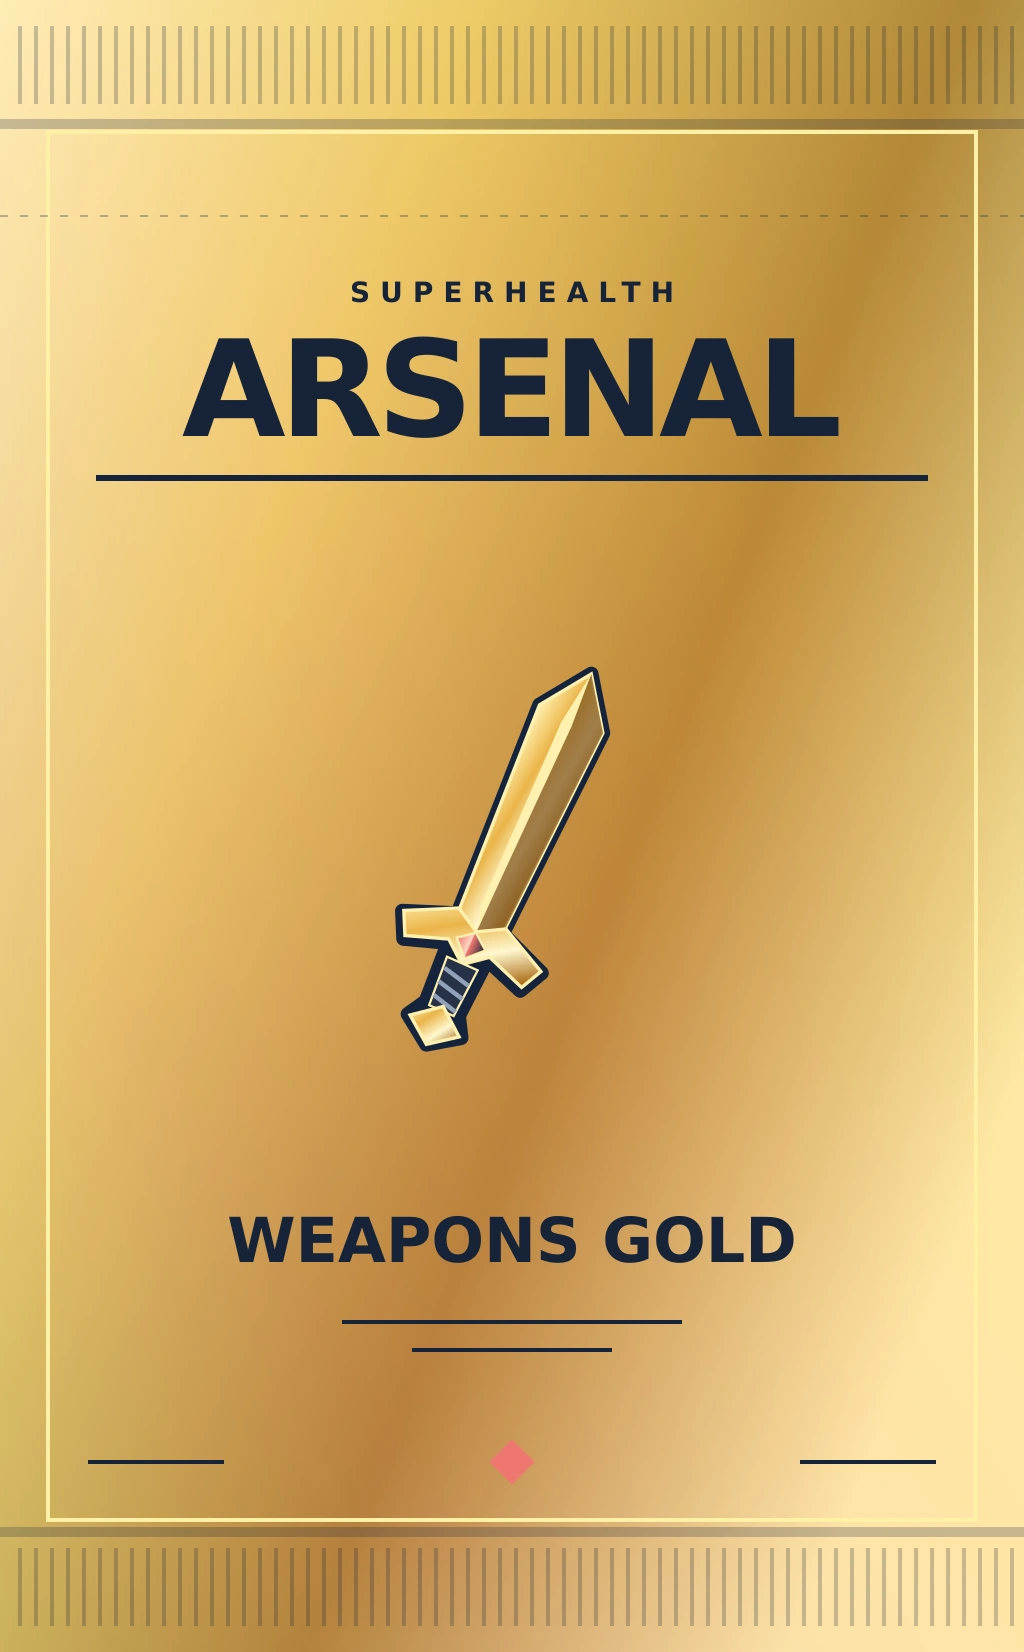
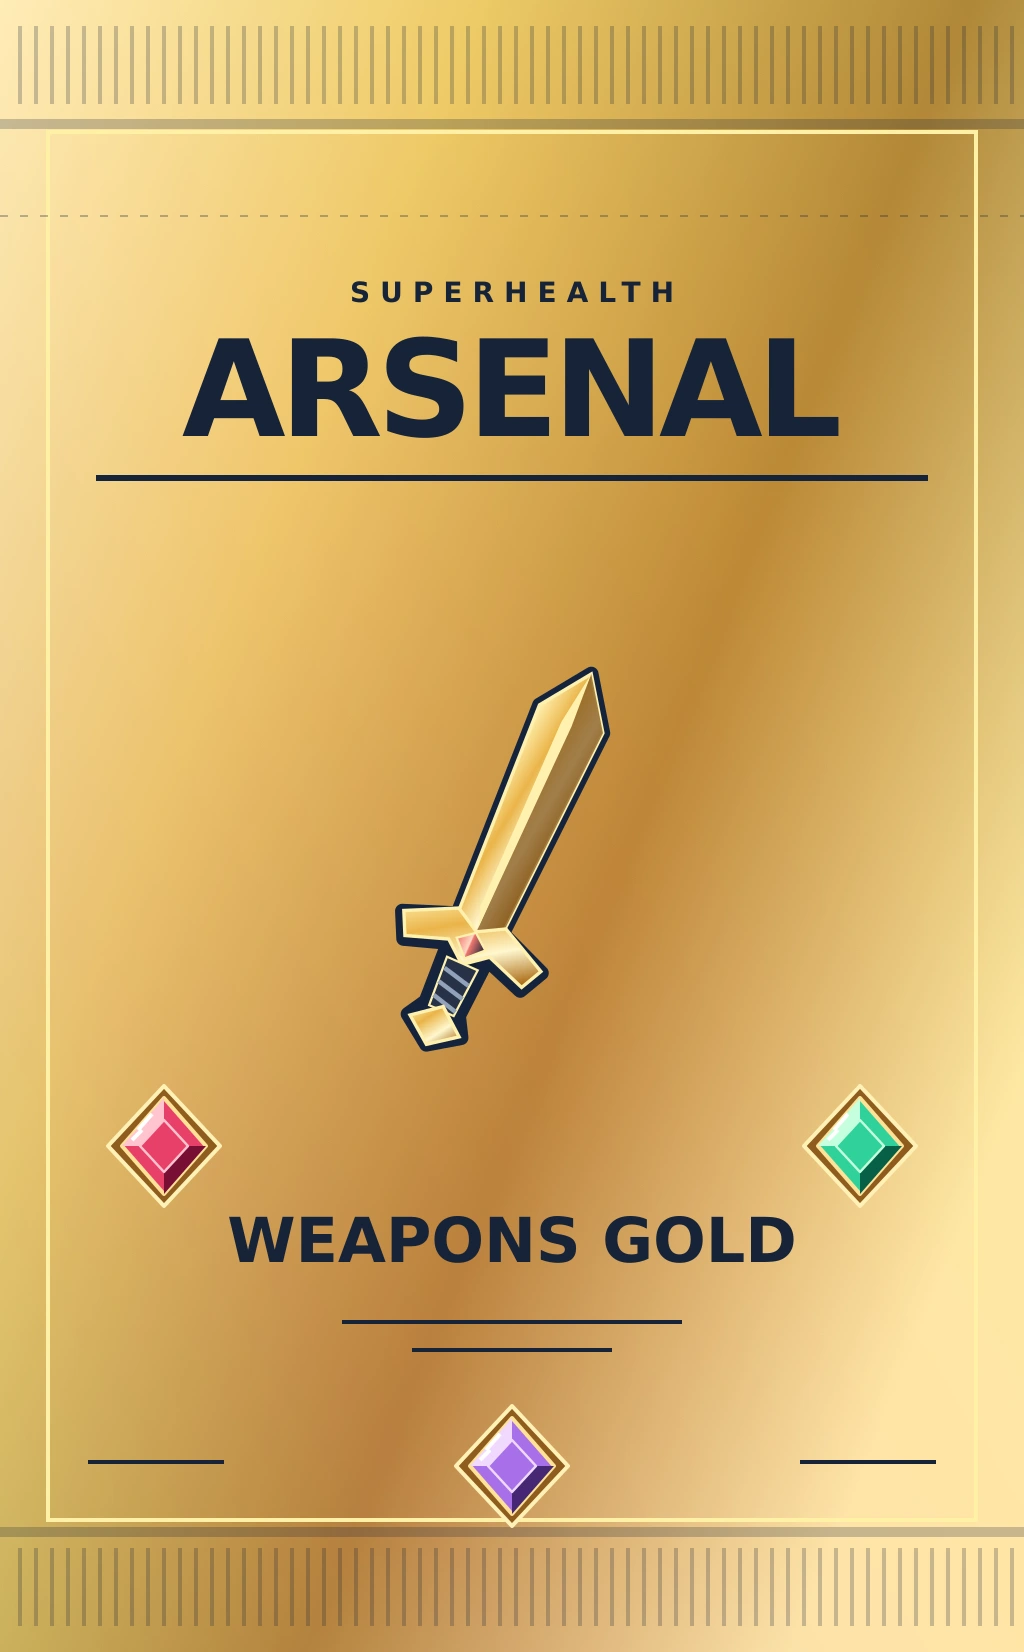
Add faceted gemstones to French and English Gold packs

Changed region(s): [[0.7812, 0.6483, 0.9062, 0.7409], [0.4375, 0.8335, 0.5625, 0.9262], [0.0938, 0.6483, 0.2188, 0.7409]]

diff --git a/review/tcg-dashboard-2026-11-11/index.html b/review/tcg-dashboard-2026-11-11/index.html
@@ -14,7 +14,7 @@
 <figure><img src="armures-gold.png" alt="Rendu WebGL du paquet Armures Gold"><figcaption>ARMURES GOLD</figcaption><small>OR / MENTHE</small></figure>
 </div></section>
 <div class="note">Cette proposition est réalisée dans les sources de l’application. Les images ci-dessus sont des captures du moteur, pas des maquettes ImageGen. Les SVG sont reproductibles ; le matériau réagit à la rotation. Le rendu de secours sans WebGL conserve les quatre illustrations.</div>
-<h2>Version 3.9.9 · Tranches continues · Français / English</h2><p>Géométrie corrigée : les deux faces rejoignent une soudure latérale fine et partagent exactement leurs points de bord. Le geste de déchirure est conservé. Les illustrations passent en anglais avec la langue de l’app : Weapons, Armor, Weapons Gold et Armor Gold, recto et verso.</p><div class="angle"><img src="armures-edge-right.png" alt="Tranche corrigée vue de profil"><img src="armes-gold-en.png" alt="Paquet Weapons Gold en anglais"></div><h2>La couleur suit la matière</h2><p>Deux orientations du même paquet : diffraction sur la surface argentée, typographie sombre préservée et reflets plus chauds sur les versions Gold. Les mouvements réduits conservent une matière statique tant que le paquet ne tourne pas.</p>
+<h2>Version 3.9.9 · Tranches continues · Français / English</h2><p>Géométrie corrigée : les deux faces rejoignent une soudure latérale fine et partagent exactement leurs points de bord. Le geste de déchirure est conservé. Les versions Gold portent des rubis, émeraudes et améthystes facettés avec reflets calculés. Les illustrations passent en anglais avec la langue de l’app : Weapons, Armor, Weapons Gold et Armor Gold, recto et verso.</p><div class="angle"><img src="armures-edge-right.png" alt="Tranche corrigée vue de profil"><img src="armes-gold-en.png" alt="Paquet Weapons Gold en anglais"></div><h2>La couleur suit la matière</h2><p>Deux orientations du même paquet : diffraction sur la surface argentée, typographie sombre préservée et reflets plus chauds sur les versions Gold. Les mouvements réduits conservent une matière statique tant que le paquet ne tourne pas.</p>
 <div class="angle"><img src="prism-angle-left.png" alt="Reflet du paquet tourné vers la gauche"><img src="prism-angle-right.png" alt="Reflet du paquet tourné vers la droite"></div>
 <h2>Dashboard : rendre les priorités visibles</h2>
 <p>Audit du code Android local au commit <code>feb0ea2d</code>, en tenant compte des modifications non commitées présentes. Les anciennes captures de novembre servent de repères visuels ; elles ne sont pas présentées comme une capture du build actuel. La grande carte « Mes séries » de ces captures a été retirée depuis : elle n’est donc pas traitée comme un défaut actuel.</p>

diff --git a/app/src/superhealth/assets/arsenal/pack.js b/app/src/superhealth/assets/arsenal/pack.js
@@ -452,6 +452,13 @@ function run(){
         foil=jewel(foil,vec2(.80,.70),vec3(.25,.92,.58),reflected,2.1);
         foil=jewel(foil,vec2(.50,.21),vec3(.65,.36,1.),reflected,4.6);
       }
+      if(mode==0&&filmPart<.5&&wrapperFx>1.5){
+        // Same bezels as the vector print, including its non-WebGL fallback.
+        // Tex.y is bottom-up: the lower illustration corners and footer.
+        foil=jewel(foil,vec2(.160156,.306295),vec3(.94,.16,.29),reflected,.25);
+        foil=jewel(foil,vec2(.839844,.306295),vec3(.16,.89,.56),reflected,2.1);
+        foil=jewel(foil,vec2(.50,.112591),vec3(.65,.36,1.),reflected,4.6);
+      }
     }else if(editionFx>1.5&&editionFx<2.5){
       vec3 rainbow=.5+.5*cos(6.283*(tex.x*.50+tex.y*.33+reflected.x*.35+vec3(0.,.333,.667)));
       foil+=rainbow*(varnish*.32+grazing*.14);

diff --git a/tools/build-prism-boosters.py b/tools/build-prism-boosters.py
@@ -40,6 +40,20 @@ def emblem(weapon, gold):
     </g>'''
 
 
+def gemstones():
+    """Printed faceted stones, aligned with the live shader's gold-only bezels."""
+    gems=[]
+    for x,y,dark,mid,light in [(82,573,'#790e35','#e84068','#ffc4d0'),(430,573,'#075f47','#30d19a','#c5ffdd'),(256,733,'#452773','#a770e9','#f1d9ff')]:
+        gems.append(f'''<g transform="translate({x} {y})" stroke-linejoin="round">
+          <path d="M0-30 28 0 0 30-28 0Z" fill="#8e5c1d" stroke="#fff1b6" stroke-width="2"/>
+          <path d="M0-24 21 0 0 24-21 0Z" fill="{mid}" stroke="#ffe298" stroke-width="2"/>
+          <path d="M0-24 0 0-21 0Z" fill="{light}"/><path d="M21 0 0 24 0 0Z" fill="{dark}"/>
+          <path d="M0-13 12 0 0 13-12 0Z" fill="{mid}" stroke="{light}" stroke-width="1.2"/>
+          <path d="M-13-8-6-16M-16-3-11-8" stroke="#fff" stroke-width="2"/>
+        </g>''')
+    return ''.join(gems)
+
+
 def wrapper(kind, gold, back, english=False):
     weapon = kind == 'weapon'
     accent = '#ef776f' if weapon else '#58d9ca'
@@ -79,7 +93,7 @@ def wrapper(kind, gold, back, english=False):
       <path d="M0 108H512" stroke="{ink}" stroke-opacity=".30" stroke-dasharray="4 6"/>
       <g font-family="DejaVu Sans, sans-serif">{title}{art}</g>
       <path d="M44 731H112M400 731H468" stroke="{ink}" stroke-width="2"/>
-      <path d="M248 723H264V739H248Z" fill="{accent}" transform="rotate(45 256 731)"/>
+      {gemstones() if gold else f'<path d="M248 723H264V739H248Z" fill="{accent}" transform="rotate(45 256 731)"/>'}
     </svg>'''
 
 

diff --git a/docs/UPDATE-3.9.9.md b/docs/UPDATE-3.9.9.md
@@ -1,6 +1,6 @@
 # SuperHealth 3.9.9
 
-- Nouveaux paquets Armes et Armures, avec reflets chromatiques et variantes Gold.
+- Nouveaux paquets Armes et Armures, avec reflets chromatiques et variantes Gold serties de pierres précieuses.
 - Sachets plus fins, avec des tranches continues pendant la rotation.
 - Paquets disponibles en français et en anglais, recto et verso.
 - Arsenal enrichi : équipements, créatures, donjons et duels amicaux.
